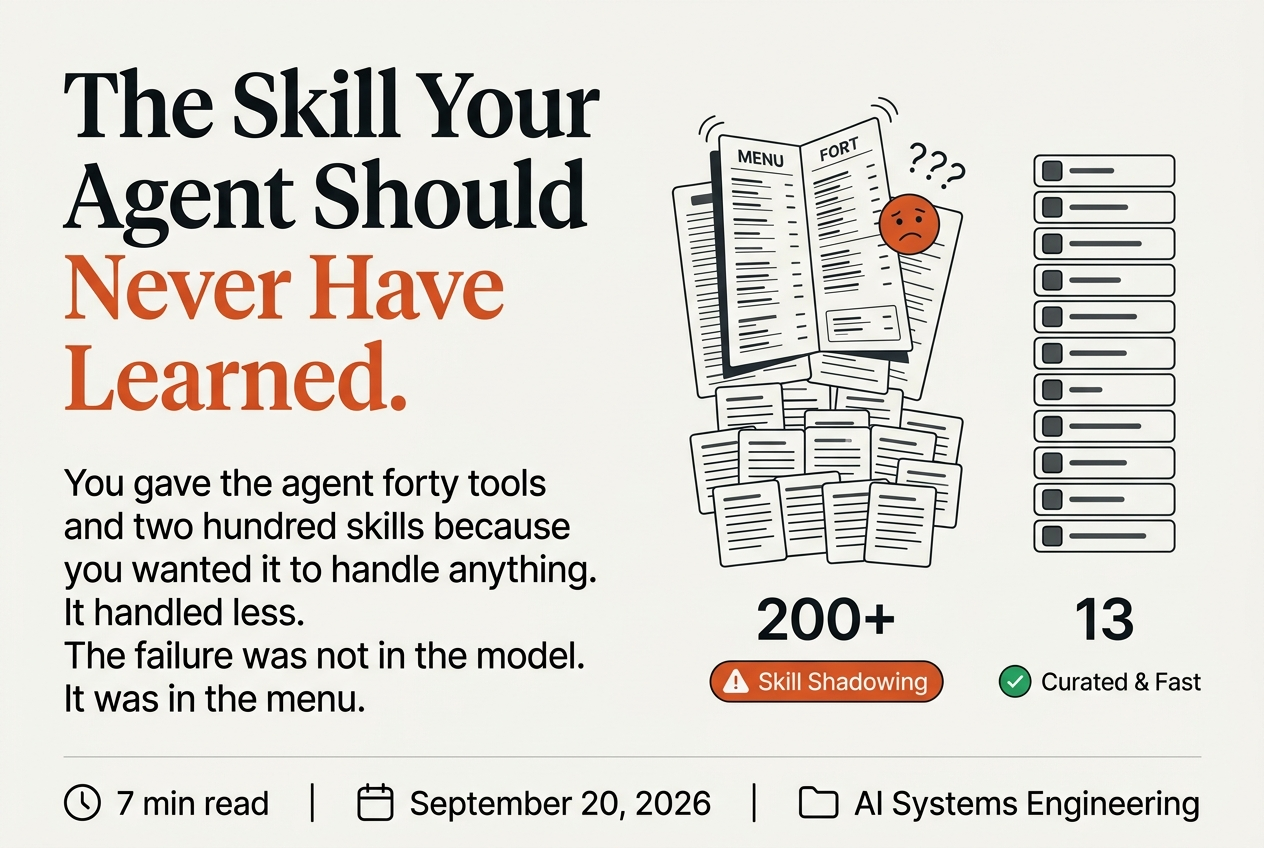
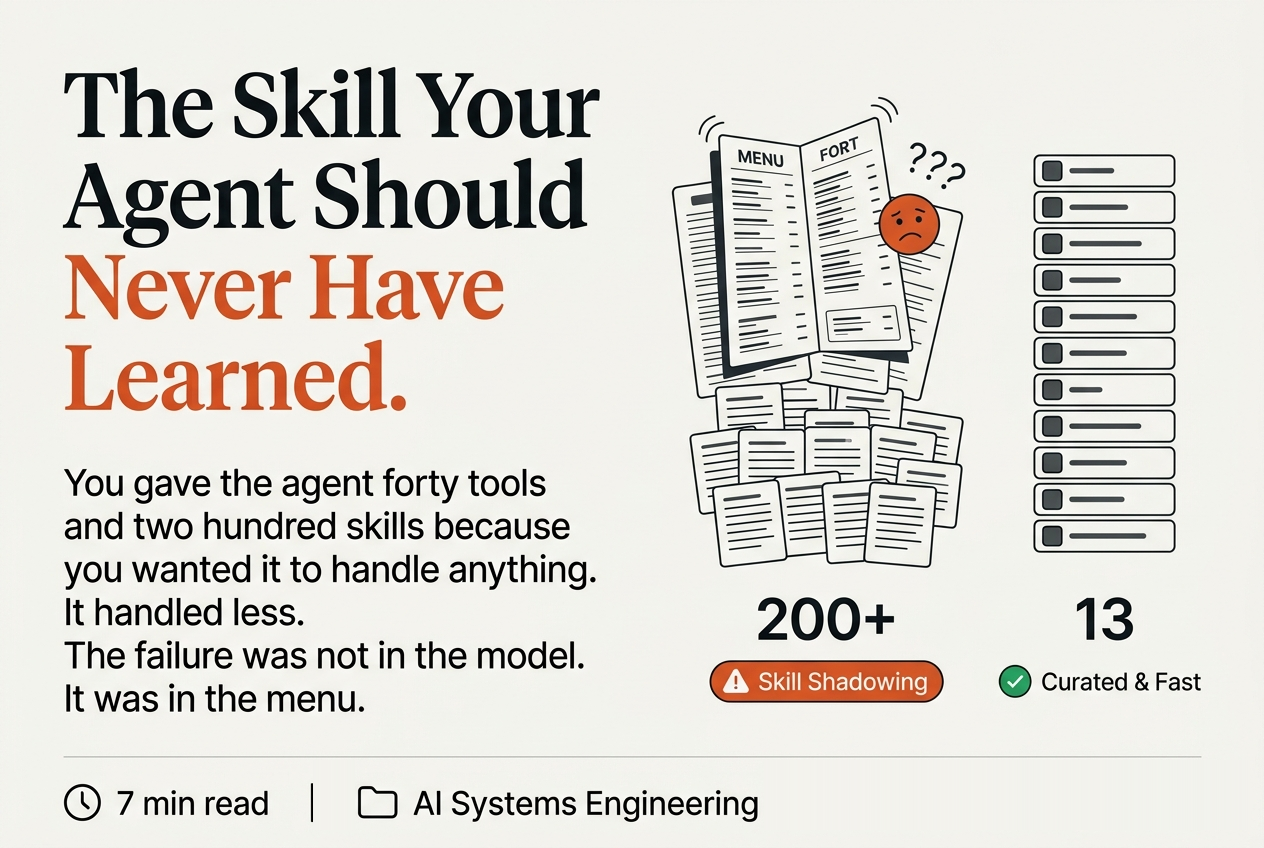
next post added

Changed region(s): [[0.2777, 0.9198, 0.9565, 0.9811]]

diff --git a/src/content/posts/2026-11-01-your-agent-doesnt-remember-anything.md b/src/content/posts/2026-11-01-your-agent-doesnt-remember-anything.md
@@ -1,0 +1,172 @@
+---
+title: "Your Agent Doesn't Remember Anything."
+date: 2026-11-01 09:00:00 -0400
+reading_time: 12
+categories: AI systems engineering
+tags: [Agent Harness, Agent Loops & Control, Context Engineering, Production Systems]
+author: Karim Bhalwani
+excerpt: "The context window is not memory. It is a whiteboard that gets erased at the end of every session. Nobody told your agent where to remember things, so it doesn't."
+topics: [agent-harness, token-economics, data-systems]
+---
+
+![Your Agent Doesn't Remember Anything.](/assets/your-agent-doesnt-remember-anything/hero-main.png)
+
+A support team deploys an agent in January. By March, they notice something strange. The agent keeps asking the same clarifying questions it asked on day one. It fails on the same edge case it failed on in week two, the one a developer spent forty minutes debugging and then documented in a runbook the team assumed the agent had absorbed. Every session, the agent starts fresh.
+
+Nobody designed it to do otherwise.
+
+The runbook was a file on a shared drive. The debugging session was a conversation that ended and closed. The forty minutes of learned context existed nowhere the agent could reach. Nobody told it where to remember things. So it remembered nothing.
+
+Hold that scenario. We are coming back to it.
+
+---
+
+In [Building the Control Layer](/writing/2026-04-26-building-the-control-layer), I described the harness as a three-part design: what the model can see before reasoning begins, what it can do during execution, and what gets validated after output is produced. Most teams get to two of those. The third is an afterthought.
+
+There is actually a fourth responsibility. Almost nobody has designed it at all.
+
+---
+
+## The Whiteboard Problem
+
+Here is what actually happens when an agent runs.
+
+The model receives a prompt. It reasons over that prompt and produces output. The output goes somewhere: a tool call, a response, a file write. Then the session continues. New information comes in. The model reasons again, this time over a context that includes what came before: the original instructions, the conversation so far, the tool results, the intermediate thoughts.
+
+All of that lives in the context window. It feels like memory. It behaves like memory, inside a single session. And then the session ends, and it is gone.
+
+The context window is not memory. It is a whiteboard. It holds everything the agent knows right now, in this session, about this task. When the session closes, the whiteboard is erased. The next session starts with a blank surface.
+
+This is not a flaw in the model. It is a fundamental property of how language model APIs work. Stateless completion endpoints do not persist state. They receive a prompt, return a completion, and forget everything. That is the contract.
+
+The consequences are significant. An agent that runs a complex analysis on Monday and produces a useful insight has produced that insight once, in a context window that no longer exists. If the same question comes up Thursday, the agent starts over. It re-reads the same inputs. It re-runs the same reasoning. It possibly reaches a slightly different conclusion because the model is probabilistic and the session context is not identical. You paid for the work twice. You got one answer each time instead of a compounding one.
+
+**The context window is not a memory system. It is a workspace. And most teams have no plan for what happens when the workspace closes.**
+
+![The whiteboard: context window vs. durable memory](/assets/your-agent-doesnt-remember-anything/whiteboard-vs-memory.png)
+
+---
+
+## Three Things People Call Memory
+
+The confusion usually starts here: teams use the word "memory" to describe three different things, and only one of them is actually durable.
+
+**Conversation history** is the simplest. It is the list of prior messages: what the user said, what the agent replied. Most frameworks pass this back into the context on each turn. It creates the illusion of continuity within a session. The agent "remembers" what you said three exchanges ago because the text of that exchange is sitting in the current prompt. This is not persistence. It is context accumulation. It ends when the session ends, and it grows more expensive with every turn because of the compounding mechanics I described in [You Are Measuring the Wrong Thing](/writing/2026-10-04-you-are-measuring-the-wrong-thing). Each additional turn re-transmits everything that came before it.
+
+**Retrieved context** is more sophisticated. A retrieval system searches a knowledge base, pulls relevant documents, and injects them into the prompt before the model reasons. This feels like memory because the model can answer questions about things that were written down somewhere. But the knowledge base has to exist, has to be current, and has to actually contain the thing being retrieved. The agent is not remembering. It is reading. Someone still has to decide what gets written down and when.
+
+**Durable state** is the thing most teams have not built. It is the persistent record of what the agent has done, learned, decided, and encountered, structured in a way that survives session boundaries, is available to the next run, and can be queried, audited, and updated. Not a prompt. Not a search index. A structured record that belongs to the workflow and travels with it.
+
+Most agentic deployments have the first two. The third is what makes an agent compound knowledge over time rather than rediscover it on every run.
+
+**Memory without durability is just expensive forgetting.**
+
+---
+
+## What Re-Discovery Costs
+
+In [You Are Measuring the Wrong Thing](/writing/2026-10-04-you-are-measuring-the-wrong-thing), I introduced cost per successful task as the metric that actually governs whether an agent is worth running. Token volume tells you how much fuel you burned. Cost per resolved outcome tells you whether the trip was worth it.
+
+Re-discovery is the most expensive loop in that framework.
+
+When an agent re-discovers context it has processed before: the same schema exploration, the same edge case debugging, the same clarifying question it asked the user two weeks ago. It is running turn one of a session that should have started at turn eight. Every token spent re-establishing baseline context is a token that did not contribute to resolving the task. And because of the compounding mechanics of stateless APIs, those early turns are the most expensive ones in the session. They are the foundation the rest of the context builds on.
+
+The teams that deploy agents without durable state routinely see 40 to 60 percent of their token spend go toward re-establishing context that already existed at the end of a prior session. The agent is not stuck on a hard problem. It is re-reading the manual it already read.
+
+This is also what drives the stagnation loops that inflate cost-per-task numbers. An agent that cannot access its prior reasoning does not converge faster over time. It converges at the same rate every time, from the same starting point. The expenditure horizon does not move. The efficiency does not improve. The bill keeps arriving for the same amount of work.
+
+**An agent without durable state does not get better. It repeats.**
+
+---
+
+## The Harness Owns the Memory
+
+This is the part that clarifies the design decision.
+
+The model cannot own memory. The model has no persistent state. It receives a prompt and returns a completion. That is the entire API contract.
+
+The retrieval system does not own memory. A vector index stores documents. It does not track what the agent decided, what tools it called, what the results were, which paths failed, or what the operator approved. It is a search engine over content, not a record of execution.
+
+The harness owns memory.
+
+In [Building the Control Layer](/writing/2026-04-26-building-the-control-layer), the harness is the layer that decides what the model can see before reasoning begins, what it can do during execution, and what gets validated after output is produced. Memory is the fourth responsibility: what gets preserved after the session closes and what gets loaded when the next one opens.
+
+Most harness designs today handle the first three and stop. The fourth is left to the developer to figure out, or left to chance. The result is agents that are sophisticated mid-session and amnesiac between them.
+
+Durable agent state is a structured record managed by the harness. At minimum it contains: what task the agent was working on, what steps it completed, what tool calls it made and what they returned, what decisions the agent reached, and what the resolution status was. This does not go into a vector index. It goes into a queryable, structured store that the harness can read before the next session starts, inject into context selectively, and update as new sessions complete.
+
+LangGraph's checkpoint primitives are the clearest production implementation of this pattern. At each execution boundary, each point where the graph processes an action and waits, the harness serializes the full execution state and writes it to a durable store. If the session crashes, the next run does not restart from the beginning. It restores the serialized state and resumes from exactly where it stopped. If a human needs to review a decision, the harness flushes state and waits indefinitely without holding memory. When the review completes, execution resumes from the checkpoint. Time-travel debugging becomes possible: the harness can restore any prior checkpoint, inspect what the agent reasoned, and branch into an alternative path.
+
+None of this is model capability. All of it is harness design.
+
+**The model forgets by design. The harness remembers by choice. Most teams have not made that choice.**
+
+![The harness memory model: checkpoint, restore, branch](/assets/your-agent-doesnt-remember-anything/harness-memory-model.png)
+
+---
+
+## What Durable Memory Actually Looks Like
+
+The instinct when someone says "agent memory" is to reach for a vector database. A managed embedding service. A semantic retrieval layer with cosine similarity scoring and approximate nearest neighbor indexes.
+
+For most production agent workloads, that is over-engineering the wrong problem.
+
+The problem is not semantic retrieval. The problem is that nothing is persisted at all. Solving it with a distributed vector store is like buying a filing cabinet for an office that has no paper.
+
+The useful pattern is simpler. Agent memory has two components: a human-readable source of truth and a derived search index.
+
+The source of truth is structured text: Markdown, JSON, a relational table. It records what the agent did, what it learned, and what the outcome was, in a form that a developer can read and edit directly. This is version-controllable. A diff of the memory file shows exactly what the agent learned between Monday and Thursday. If the agent records something incorrect, a developer corrects the source file and the index rebuilds from it. The source of truth is the audit trail.
+
+The derived index sits on top of the source of truth and makes it searchable. This is where local embedded search, combining keyword matching with semantic retrieval over the same structured store, earns its place. Not as the primary architecture, but as the query layer over a system whose foundation is already auditable and correct.
+
+SQLite fits this pattern well for most teams starting out. Not because it is the most powerful option, but because it removes every infrastructure decision that is not the actual problem. No server to provision. No connection pool to manage. A file on disk, in the same directory as your agent. The database engine sits inside the same process, which means the harness can write a checkpoint at the end of every session and query it at the start of the next one, with no external dependencies and no added latency.
+
+LangGraph's `SqliteSaver` is the clearest production implementation of this for Python-based agent loops. At each execution boundary, it serializes the full thread state to a local SQLite file. If the process crashes, the next run restores from the last checkpoint rather than starting over. If you outgrow single-node deployment, `PostgresSaver` is a drop-in replacement with no logic changes. You write the pattern once.
+
+For the retrieval layer, SQLite supports both keyword search and semantic similarity against the same file, without an external embedding service. This is the memweave pattern: Markdown as the auditable source of truth, SQLite as the search index that rebuilds from it. The team in the opening scenario could have implemented this in an afternoon. The debugging note from week two would have been a row in a table. The clarifying question the agent asked on day one would have had a recorded answer. The runbook would have been reachable. None of it required a vector database.
+
+The principle from [Stop Renting the Intelligence](/writing/2026-07-19-stop-renting-the-intelligence) applies here directly. Baking knowledge into weights rather than re-sending it on every call is the ownership model. Durable agent memory is the operational equivalent: recording what the agent has learned in a form that persists, rather than paying to re-discover it on the next prompt.
+
+There is one design detail that matters significantly: temporal decay. A memory system that weights all stored observations equally will eventually surface a debugging note from six months ago over a constraint documented this morning, if the older note happens to be more semantically similar to the current query. Durable memory needs a freshness signal, a timestamp that the retrieval layer uses to de-weight aging observations while preserving evergreen architectural constraints. Without it, the memory gets noisier over time, not better.
+
+**The vector store is not the architecture. Durability is the architecture. SQLite is often the right place to start.**
+
+![Source of truth and derived index: the two-layer memory pattern](/assets/your-agent-doesnt-remember-anything/two-layer-memory.png)
+
+---
+
+## The Decision You Defaulted On
+
+Back to the support team from the opening.
+
+The agent kept asking the same clarifying questions because nobody stored the answers from the first time they were asked. It kept failing on the same edge case because the debugging session that resolved it existed only in a conversation that ended. The runbook on the shared drive was human-readable content that lived outside any system the agent could query.
+
+Nobody made a wrong decision. Nobody made a decision at all. The team built a capable agent, deployed it, and assumed that whatever it learned in each session would somehow carry forward. It did not, because no system was built to carry it.
+
+The question is not whether your agent needs durable memory. It does. Every agent that runs more than once, on more than one task, in more than one session, needs durable memory. The question is who owns the design of that memory layer, what structure it uses, and what the harness does to populate and query it.
+
+Right now, in most organizations, that question has not been asked. The team is focused on what the agent can do. The memory layer is what the agent can keep.
+
+Without it, your agent is not getting better. It is running the same session from scratch, every time, and billing you for the repetition.
+
+The harness controls what the model sees. The harness controls what the model can do. And the harness controls what survives when the session closes.
+
+If nobody designed that third piece, the session is all there is.
+
+**Your agent does not remember anything. That is a design decision, whether you made it or not.**
+
+---
+
+## Resources & Next Steps
+
+- [LangGraph Checkpointing Documentation](https://langchain-ai.github.io/langgraph/concepts/persistence/). The production implementation of checkpoint-based durable state: SqliteSaver for single-node, PostgresSaver for scaled deployments.
+- [memweave: Zero-Infrastructure Agent Memory](https://towardsdatascience.com/memweave-zero-infra-ai-agent-memory-with-markdown-and-sqlite-no-vector-database-required/). The Markdown-as-truth, SQLite-as-derived-cache pattern in practice.
+- [AgentSM: Semantic Memory for Agentic Text-to-SQL (arXiv:2601.15709)](https://arxiv.org/html/2601.15709v1). Structured scratchpad pattern: 35% reduction in trajectory length, 25% token reduction, measurable accuracy improvement.
+- [MIT Recursive Language Models (arXiv:2512.24601)](https://arxiv.org/abs/2512.24601). External environment offloading to prevent context rot on large datasets.
+- [Cloudflare: Agents That Remember](https://blog.cloudflare.com/introducing-agent-memory/). Production memory design at the infrastructure layer.
+- Related post: [Building the Control Layer.](/writing/2026-04-26-building-the-control-layer)
+- Related post: [You Are Measuring the Wrong Thing.](/writing/2026-10-04-you-are-measuring-the-wrong-thing)
+- Related post: [Stop Renting the Intelligence.](/writing/2026-07-19-stop-renting-the-intelligence)
+- Related post: [The Scaffold Was Never the Safety.](/writing/2026-10-18-the-scaffold-was-never-the-safety)
+
+---

diff --git a/src/content/posts/2026-10-04-you-are-measuring-the-wrong-thing.md b/src/content/posts/2026-10-04-you-are-measuring-the-wrong-thing.md
@@ -6,7 +6,7 @@ categories: AI systems engineering
 tags: [Token Economics, AI Governance, Agent Loops & Control, Production Systems]
 author: Karim Bhalwani
 excerpt: "Every team tracking AI spend is watching the same number: tokens consumed. It is the wrong number. The right number is cost per successful outcome, and almost nobody has it."
-topics: [token-economics, ai-governance, agent-harness]
+topics: [token-economics, agent-harness]
 ---
 
 ![You Are Measuring the Wrong Thing.](/assets/you-are-measuring-the-wrong-thing/hero-main.png)
@@ -67,21 +67,21 @@ A cheaper model running more turns to reach the same outcome costs more. Not les
 
 There is a second cost buried inside every agent session, and it comes in three forms. Most teams have measured none of them.
 
-**The MCP Tax: tool schema injection.** When an agent initializes, it receives definitions for every tool it might use—function names, parameter types, descriptions, validation schemas. These get injected into the context on every single turn. Not once. Every turn.
+**The MCP Tax: tool schema injection.** When an agent initializes, it receives a definition for every tool it might use. Function names, parameter types, descriptions, validation schemas. These inject into the context on every single turn. Not once. Every turn.
 
-A basic tool server might add 1,000 tokens to each call. A cloud database integration with 40 methods can add 12,000. An enterprise environment running four or five connected services simultaneously carries between 15,000 and 55,000 tokens of tool definition overhead per turn, before any user query or task context is included. In large enterprise catalogs with 100-plus tools, the payload has been measured above 54,000 tokens per turn.
+In a typical enterprise environment connected to four or five services, that catalog adds tens of thousands of tokens per turn before a word of the actual task appears. An agent handling a 20-turn support workflow processes those definitions twenty times on a single ticket. Not because it used every tool twenty times. Just because it might.
 
-Put numbers on it. An agent handling a 20-turn support workflow, carrying a 15,000-token tool payload, processes 300,000 tokens of API documentation on a single ticket. Tokens describing function signatures the model may never invoke. At production rates, that overhead alone costs roughly $0.90 per ticket. At 100,000 monthly tickets, you have paid $90,000 to repeatedly transmit your tool catalog. The mitigation exists: progressive tool disclosure loads schemas on demand, and sandboxed code execution reduces the schema payload by over 95%. Red Hat's production benchmarks showed a 53% total token reduction by switching from full schema injection to a sandboxed Python model.
+The fix is to load schemas on demand rather than all at once. Red Hat's production benchmarks showed a 53% total token reduction by switching from full schema injection to a sandboxed model. No different model. No different architecture. Just measuring where the tokens were actually going.
 
-**The Skills Tax: instruction payload overhead.** Skills—the structured instruction files that give an agent its persona, its procedures, and its domain knowledge—solve a real problem. They encode expertise so it does not have to live in a developer's head. But they carry a cost that most teams never account for separately.
+**The Skills Tax: instruction payload overhead.** Every skill loaded into the agent, its persona, its procedures, its rules, gets resent in full on every turn. A coding agent carrying five active skills might inject 10,000 tokens of instructions before the task begins. Those 10,000 tokens do not change between turn one and turn thirty. You pay for them thirty times.
 
-A skill file describing a support triage procedure might run 2,000 tokens. A coding agent loaded with five active skills—security review, test writing, documentation, code style, and escalation procedures—carries 8,000 to 15,000 tokens of instruction payload before any task content appears. Multiplied across a 30-turn session, that static overhead processes between 240,000 and 450,000 tokens that describe what the agent should do, not what it is actually doing. In [Stop Renting the Intelligence](/writing/2026-07-19-stop-renting-the-intelligence), the architecture that compounds correctly is the one that bakes context into weights rather than re-sending it on every call. Skills injected as prompt text are the re-sending model. Skills encoded as fine-tuned adapters are the ownership model. The token math is different.
+In [Stop Renting the Intelligence](/writing/2026-07-19-stop-renting-the-intelligence), the principle is that the architecture which compounds correctly bakes context into weights rather than re-sends it on every call. Skills injected as prompt text are the re-sending model. Skills encoded as fine-tuned adapters are the ownership model. The token math is different.
 
-**The Tool Result Tax: verbose environmental payloads.** Every time an agent calls a tool, the result comes back into the context. A database query returning a formatted 200-row result set. A terminal command producing 3,000 lines of build log. A web fetch returning full HTML before the relevant two sentences are extracted. These are not errors. They are how most tools behave by default, and every one of those tokens re-transmits on the next turn.
+**The Tool Result Tax: verbose environmental payloads.** Every time an agent calls a tool, the result comes back into the context. A database query returning a 200-row result set. A terminal command producing pages of build log. A web fetch returning full HTML when the agent needed one sentence.
 
-Compressing tool results—extracting only what the model needs before passing it back into context—is one of the highest-leverage optimizations available. It does not require switching models. It does not require architectural changes. It requires measuring what tool results actually cost and deciding what the model actually needs to see.
+These are not errors. They are how most tools behave by default. And every one of those tokens re-transmits on the next turn. Compressing tool results before passing them back is one of the highest-leverage optimizations available. No model change required. Just measuring what the model actually needs to see.
 
-Taken together, MCP schemas, skill payloads, and tool result verbosity are a hidden tax that compounds with every turn. In production agentic systems, this overhead regularly accounts for 40 to 70 percent of total token consumption on a given session. The model spend on actual reasoning is often the minority of the bill.
+Taken together, these three taxes account for 40 to 70 percent of total token consumption in most production sessions. The model spend on actual reasoning is often the minority of the bill.
 
 **You cannot optimize what you have not measured. Most teams have never separated the tax from the work.**
 
@@ -93,11 +93,11 @@ Software engineering benchmarks have become the clearest available window into w
 
 On SWE-bench, a standard evaluation where agents attempt to resolve real GitHub issues by generating patches that pass hidden test suites, the data tells a consistent story. Success rate matters far more than token price.
 
-Early agent configurations on GPT-4 resolved less than 1% of tasks. Each attempt cost around $0.24. The effective cost per resolved issue, accounting for the failures, was over $30. A simpler architecture at $0.05 per attempt delivered a lower cost per fix, not because it was smarter, but because it failed less catastrophically.
+Early agent configurations on GPT-4 resolved less than 1% of tasks. Each attempt cost $0.24. The effective cost per resolved issue, accounting for the failures, was over $30.
 
-Current frontier configurations tell a different story. Agents achieving 75 to 80% solve rates spend between $0.07 and $0.75 per attempt, yielding $0.09 to $1.00 per resolved task. The model priced at half the per-token rate does not automatically win. If it loops through more self-correction cycles to reach a working patch, its effective cost per resolved output climbs past the more expensive model that solved it in fewer turns.
+A simpler architecture at $0.05 per attempt delivered a lower cost per fix. Not because it was smarter. Because it failed less often.
 
-This is the trap: optimizing for the rate card without measuring the resolution rate. The cheapest token is not the cheapest outcome.
+The model priced at half the per-token rate does not automatically win. If it loops through more self-correction cycles to reach the same result, the cheaper sticker price compounds into a more expensive outcome.
 
 METR's Expenditure Horizon adds a harder constraint. Across open-ended machine learning optimization tasks, autonomous agents are cost-effective at low budgets. Below a few hundred dollars, agents implement improvements efficiently. Beyond $600 to $3,300 in total spend, the returns flatten. Human researchers become more cost-effective. The L-shaped curve appears consistently across model families and task types. Spending more does not produce proportionally more. At some point, it produces almost nothing.
 
@@ -139,7 +139,7 @@ Three phases, in order.
 
 **Measurement second.** You track cost per successful outcome, not cost per call. You instrument resolution rates per workflow type. You measure loop stagnation: how often an agent iterates without converging, because every stagnant loop is spend without output. If your instrumentation cannot tell you whether a session produced a verified result, you do not have cost measurement. You have billing data.
 
-**Governance third.** Budget limits by team and workflow. Routing policies that direct routine work to cheaper model tiers and escalate to frontier capability only when complexity warrants it—which is exactly what [Route the Intelligence](/writing/2026-05-10-route-the-intelligence) established as the starting point. Circuit breakers that halt sessions when spend exceeds a threshold without a resolution signal. Not to cap the system arbitrarily, but because an agent running past its expenditure horizon is burning budget on work that a human would resolve faster.
+**Governance third.** Budget limits by team and workflow. Routing policies that direct routine work to cheaper model tiers and escalate to frontier capability only when complexity warrants it. This is exactly what [Route the Intelligence](/writing/2026-05-10-route-the-intelligence) established as the starting point. Circuit breakers that halt sessions when spend exceeds a threshold without a resolution signal. Not to cap the system arbitrarily, but because an agent running past its expenditure horizon is burning budget on work that a human would resolve faster.
 
 The tooling exists. OpenTelemetry semantic conventions for generative AI provide vendor-agnostic token tracing. Langfuse provides granular cost attribution per prompt version and execution step. AI gateway layers like Portkey or LiteLLM enforce budget hard-caps by team or workflow. The technology is available. What is missing is the organizational decision to make cost per successful outcome a first-class metric, owned by someone, tracked in every review.
 
@@ -165,7 +165,7 @@ The teams that will build durable AI practices are not the ones that spend the m
 
 Back to the finance meeting from the opening. A hundred and twenty million tokens. $38,000. Three features. Four thousand support tickets.
 
-The team that cannot connect those numbers is hoping for credit. The team that can—resolution rate, cost per ticket, improvement over baseline, expenditure horizon by workflow—is asking for more budget, with evidence that it will compound.
+The team that cannot connect those numbers is hoping for credit. The team that can, with resolution rate, cost per ticket, improvement over baseline, and expenditure horizon by workflow, is asking for more budget, with evidence that it will compound.
 
 **You will not defend AI spend with a token count. You will defend it with an outcome.**
 
@@ -176,10 +176,10 @@ The team that cannot connect those numbers is hoping for credit. The team that c
 - [METR Expenditure Horizon: Measuring Optimization Ability](https://metr.org/blog/2026-07-21-expenditure-horizon/). The framework for measuring when autonomous agent spend crosses into diminishing returns and human effort becomes more economical.
 - [SWE-bench Leaderboard](https://www.swebench.com/). Cost-per-resolved-task data across agent architectures and model tiers.
 - [Dynamic Tool Gating and Lazy Schema Loading (arXiv:2604.21816)](https://arxiv.org/html/2604.21816v1). The research behind progressive tool disclosure and quantified MCP Tax measurements.
-- [Sandboxed Python Reduces Tool Schema Overhead — Red Hat Emerging Tech](https://next.redhat.com/2026/04/23/how-sandboxed-python-reduces-tool-schema-overhead-in-ai-agents/). The production benchmark showing 53% total token reduction.
+- [Sandboxed Python Reduces Tool Schema Overhead: Red Hat Emerging Tech](https://next.redhat.com/2026/04/23/how-sandboxed-python-reduces-tool-schema-overhead-in-ai-agents/). The production benchmark showing 53% total token reduction.
 - [Langfuse: Token and Cost Tracking](https://langfuse.com/docs/observability/features/token-and-cost-tracking). Open-source cost attribution at the trace and prompt version level.
 - [OpenTelemetry GenAI Semantic Conventions](https://opentelemetry.io/blog/2024/otel-generative-ai/). The vendor-agnostic standard for instrumenting agent token consumption across providers.
-- [FinOps for AI Overview — FinOps Foundation](https://www.finops.org/wg/finops-for-ai-overview/). The cloud FinOps parallel and emerging TokenOps working group framework.
+- [FinOps for AI Overview: FinOps Foundation](https://www.finops.org/wg/finops-for-ai-overview/). The cloud FinOps parallel and emerging TokenOps working group framework.
 - Related post: [Route the Intelligence, Not Just the Context.](/writing/2026-05-10-route-the-intelligence)
 - Related post: [The Skill Your Agent Should Never Have Learned.](/writing/2026-09-20-the-skill-your-agent-should-never-have-learned)
 - Related post: [You Don't Maximize Tokens. You Maximize Learning.](/writing/2026-08-05-token-maxing-learning)

diff --git a/src/content/posts/2026-09-20-the-skill-your-agent-should-never-have-learned.md b/src/content/posts/2026-09-20-the-skill-your-agent-should-never-have-learned.md
@@ -1,7 +1,7 @@
 ---
 title: "The Skill Your Agent Should Never Have Learned."
 date: 2026-09-20 08:00:00 -0400
-reading_time: 7
+reading_time: 8
 categories: AI systems engineering
 tags: [Agent Harness, Model Routing, AI Governance, Production Systems]
 author: Karim Bhalwani
@@ -85,9 +85,7 @@ Elegant idea. Bad assumption.
 
 The assumption is that a two-line description captures everything that matters. The preconditions, the auth model, the environment target, the artifact format. Two recipes for the same dish, written by different chefs, look identical from the title alone. The distinguishing details are on page three.
 
-Researchers tested this on eighty thousand skills. Routing on descriptions alone dropped accuracy by 37 to 44 percentage points. That is not drift. That is collapse. Better descriptions recovered some of the gap, but stayed 7 to 21 points below routing that could see the full body.
-
-The signal that matters lives inside the skill, not in its label.
+Researchers tested this on eighty thousand skills. Routing on descriptions alone dropped accuracy by more than a third. That is not drift. That is collapse. Better descriptions helped at the margins. The fundamental problem remained: the signal that matters is inside the skill, not in its label.
 
 In [Route the Intelligence, Not Just the Context](/writing/2026-05-10-route-the-intelligence), I wrote that the harness should route intelligence, not just context. Same principle here. You are routing the model to the right skill. The information needed to do that correctly is in the recipe itself, not in the title.
 
@@ -105,7 +103,7 @@ GitHub Copilot had forty tools. Telemetry showed the agent ignoring instructions
 
 Fewer tools. Faster answers. Better code.
 
-The academic version does the same for skills. A small embedding model filters eighty thousand skills down to twenty candidates. A reranker reads the full body of each candidate, the complete recipe, and picks the best match. The reasoning model only sees the winner. This pipeline uses 1.2 billion parameters and runs six times faster than having the foundation model do the routing.
+The academic version does the same for skills. A small embedding model filters thousands of skills down to a handful of candidates. A reranker reads the full body of each one and picks the best match. The reasoning model only sees the winner. It runs faster and more accurately than asking the reasoning model to choose from the full catalog.
 
 Both approaches share one insight: the reasoning model should not be choosing. It should be reasoning. Choosing is a different job.
 

diff --git a/src/content/posts/2026-10-18-the-scaffold-was-never-the-safety.md b/src/content/posts/2026-10-18-the-scaffold-was-never-the-safety.md
@@ -1,7 +1,7 @@
 ---
 title: "The Scaffold Was Never the Safety."
 date: 2026-10-18 08:00:00 -0400
-reading_time: 12
+reading_time: 11
 categories: AI systems engineering
 tags: [Agent Loops & Control, AI Governance, Production Systems, Agent Harness]
 author: Karim Bhalwani
